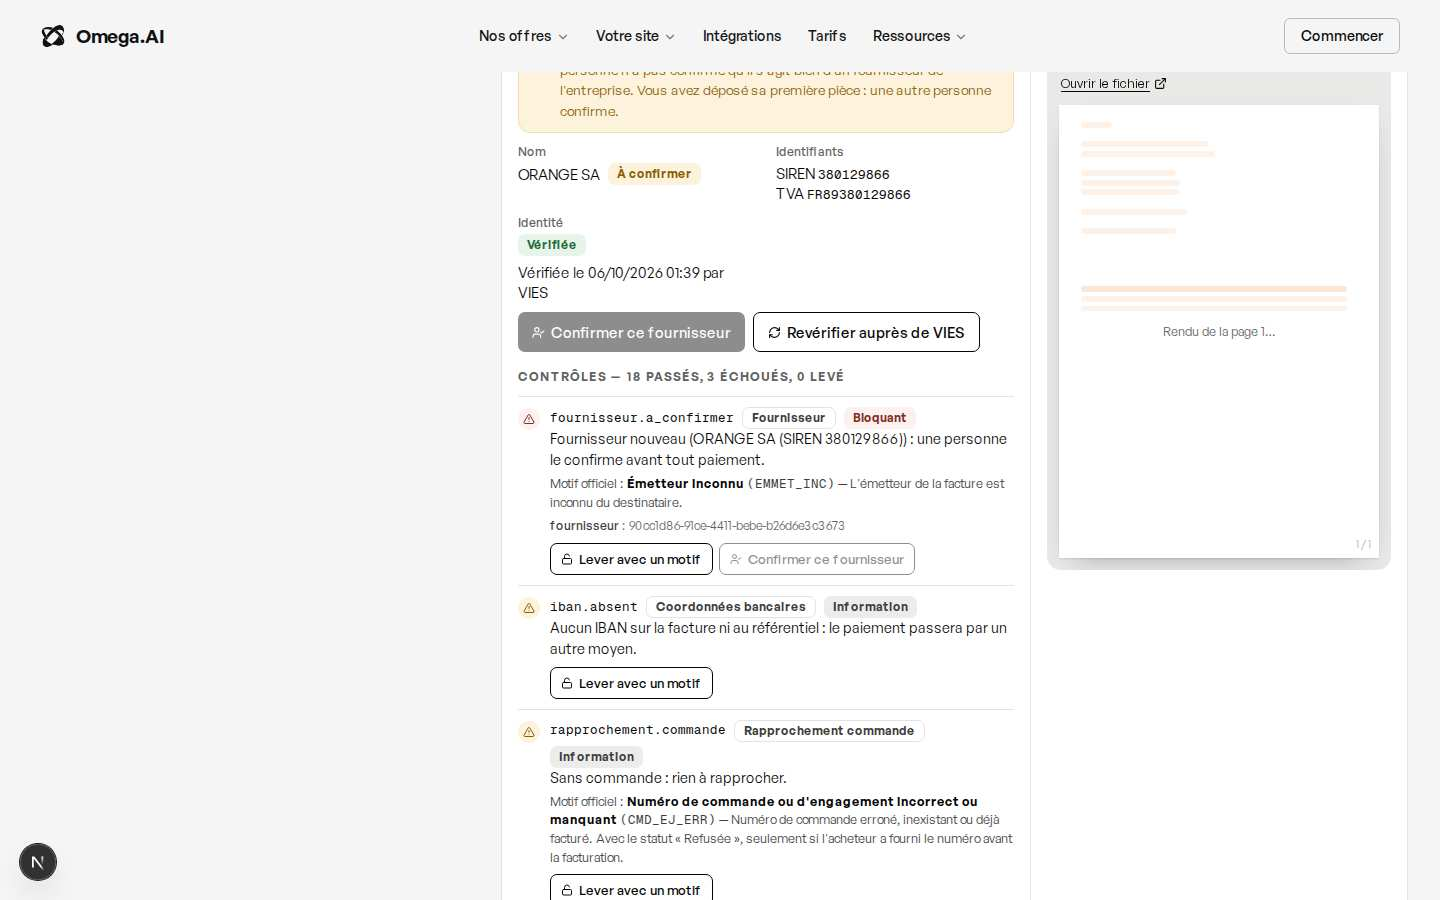
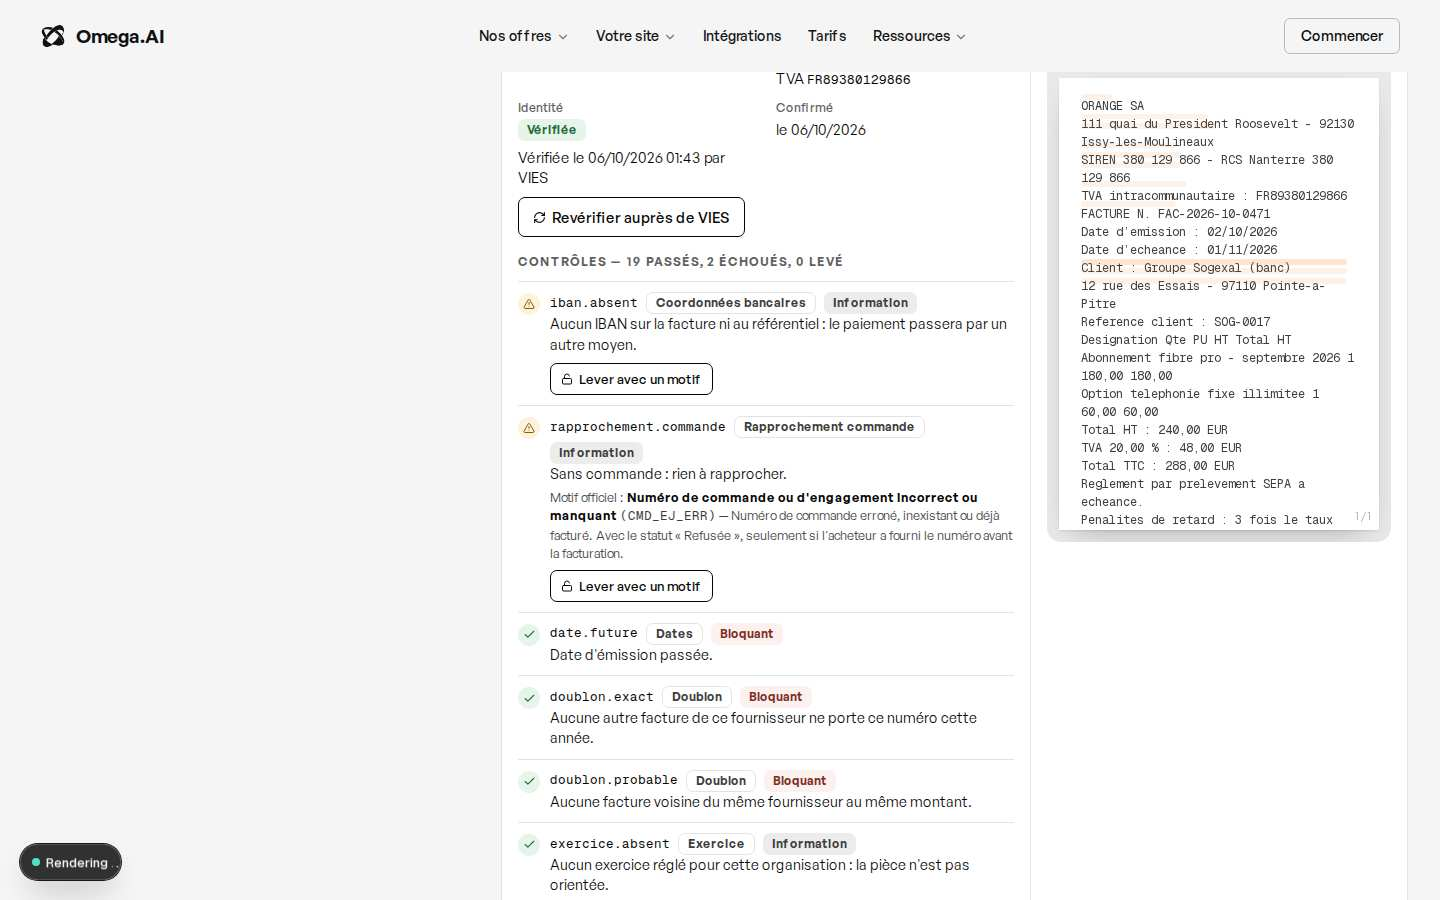
NOTES-A3 et recette : fournisseur confirmé en réel par une autre personne, « Annuler ma demande » rejoué en réel
Claude-Session: https://claude.ai/code/session_01Npbh1aR6LoEX7PZDchMSca

diff --git a/omega/NOTES-A3.md b/omega/NOTES-A3.md
@@ -138,16 +138,38 @@ RLS, portes RPC). Sans session, l'interrupteur est gris et l'exemple reste.
 - Validation : tsc ✓, eslint ✓, build ✓, recette aux cinq largeurs ✓
   (103 contrôles, dont l'enchaînement « confirmer le fournisseur »).
 
+### Rejoué en réel après la fusion (c2ee390), 06/10 01 h 53–01 h 55 Z
+
+- **Confirmer** (`daf@banc-varelo.test`, valideur, fourni par le
+  coordinateur ; `relecture-fournisseur.mjs … --confirmer`) : « Confirmer ce
+  fournisseur » actif pour daf, ORANGE SA → **Actif** (`confirme_par` = daf,
+  01:53:30 Z), la facture FAC-2026-10-0471 passe de `bloquee` à
+  **`a_valider`** (0 bloquant, 0 attention) et la demande
+  `filed.valider_fournisseur` est annulée d'office. Capture
+  `reel-fournisseur-confirme-1440.jpg`.
+- **Annuler ma demande** : la demande du gérant est née par l'écran — le
+  gérant propose un IBAN à ORANGE SA, désormais actif (`--iban=`, l'IBAN
+  d'exemple public FR76 3000 6000 0112 3456 7890 189) → `filed.valider_iban`
+  avec `demandeur_id` = gérant (le déclencheur `preparer_demande` lit
+  `auth.uid()` même sous une porte security definer). Puis
+  `relecture-annulation.mjs` : la demande est trouvée, « Annuler ma
+  demande » est offert, l'annulation passe (« Votre demande est annulée »),
+  `statut = annulee` en base. L'IBAN d'essai reste `propose` sur le banc,
+  sans demande (voir plus bas).
+- Le dossier se relit à 1, 2 et 4 minutes après « Revérifier » (le
+  coordinateur ne peut pas publier `filed_fournisseurs` : laissé à Teo).
+
 ### Reste
 
-- **Confirmer en réel** : il faut une **autre personne** que le gérant
-  (gérant, admin ou valideur, pas `referent` s'il n'a pas ce rôle) avec son
-  mot de passe, pour confirmer ORANGE SA sur le banc. Demandé au coordinateur.
-- **Annuler ma demande** : toujours aucune demande saisie par le gérant sur
-  le banc (10 en attente au 06/10 01 h 45 Z, toutes `demandeur_type =
-  systeme`). Le code est en place depuis le lot 19 ; à rejouer dès qu'une
-  demande du gérant existe.
-- Publication Realtime de `filed_fournisseurs` (avec la demande 9).
+- Publication Realtime de `filed_fournisseurs` (Teo).
+- Pour A4 / le coordinateur : (a) la demande `filed.valider_facture` née du
+  recontrôle lancé par la confirmation est **attribuée à daf**
+  (`demandeur_type = utilisateur`, `demandeur_id` = daf) et non au système —
+  `auth.uid()` dans `preparer_demande` ; daf ne pourra pas la valider
+  (séparation saisie / approbation) alors qu'il ne l'a pas saisie ; (b) un
+  IBAN `propose` dont la demande est annulée reste `propose` sans demande
+  ouverte (ici FR76 •••• 0189 d'ORANGE SA sur le banc) : rien ne le refuse ni
+  ne le repropose.
 - À voir par A4 / le coordinateur, pas par l'écran : `fournisseur.a_confirmer`
   porte « Lever avec un motif » comme tout contrôle ; si le déposant peut le
   lever, il contourne la séparation de `filed_confirmer_fournisseur`.
